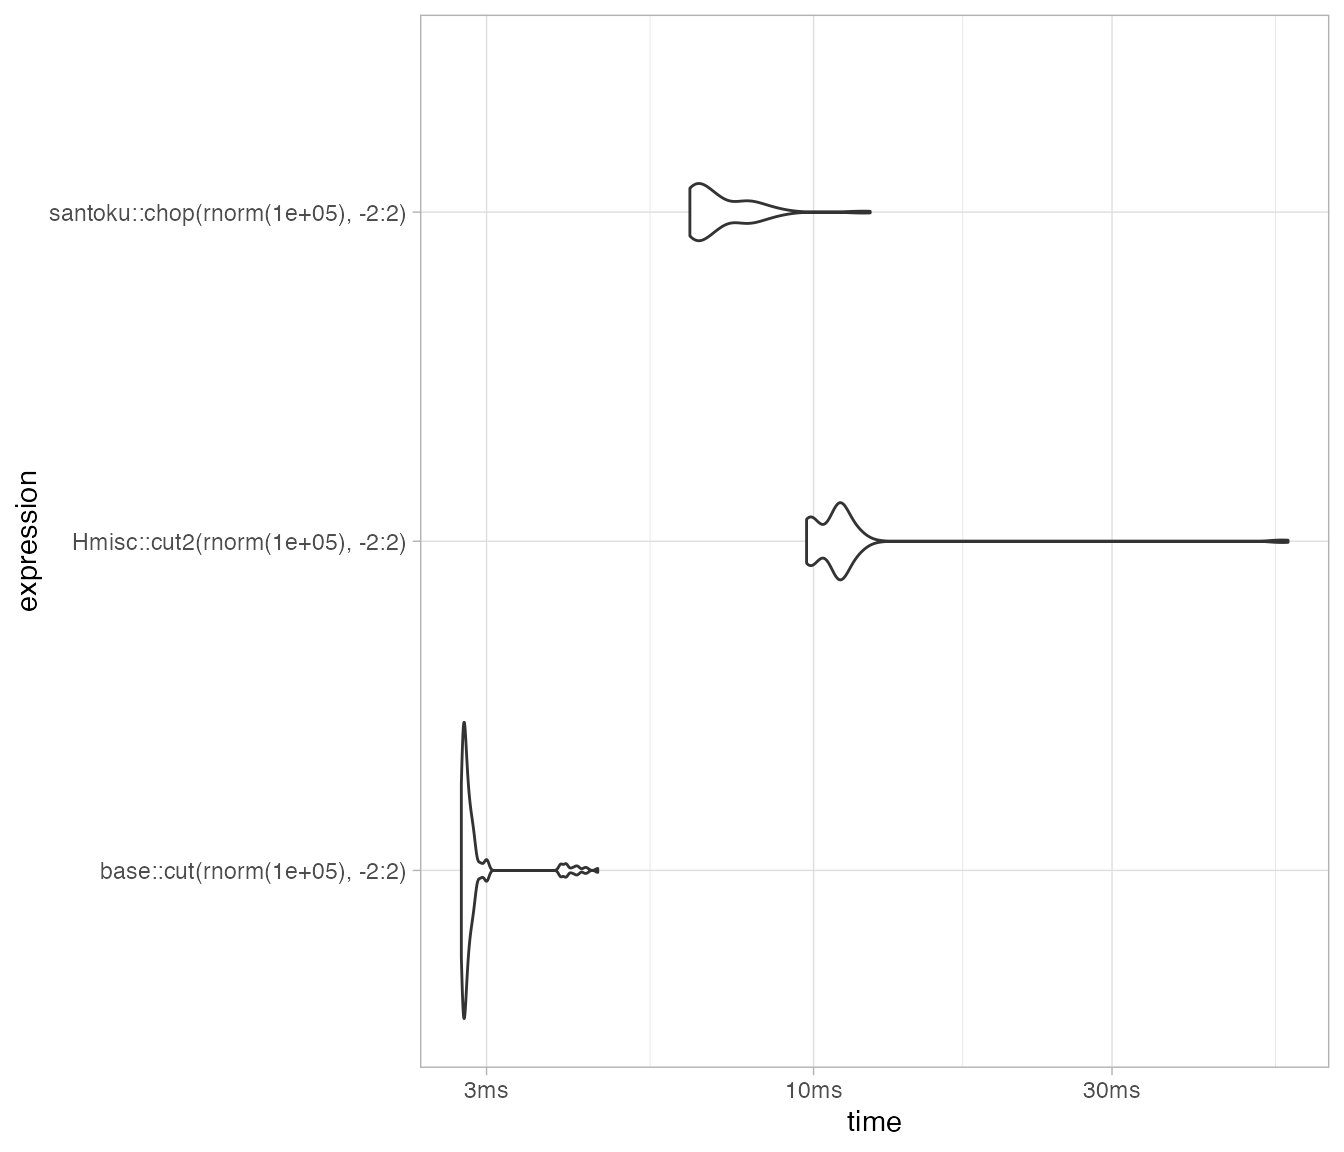
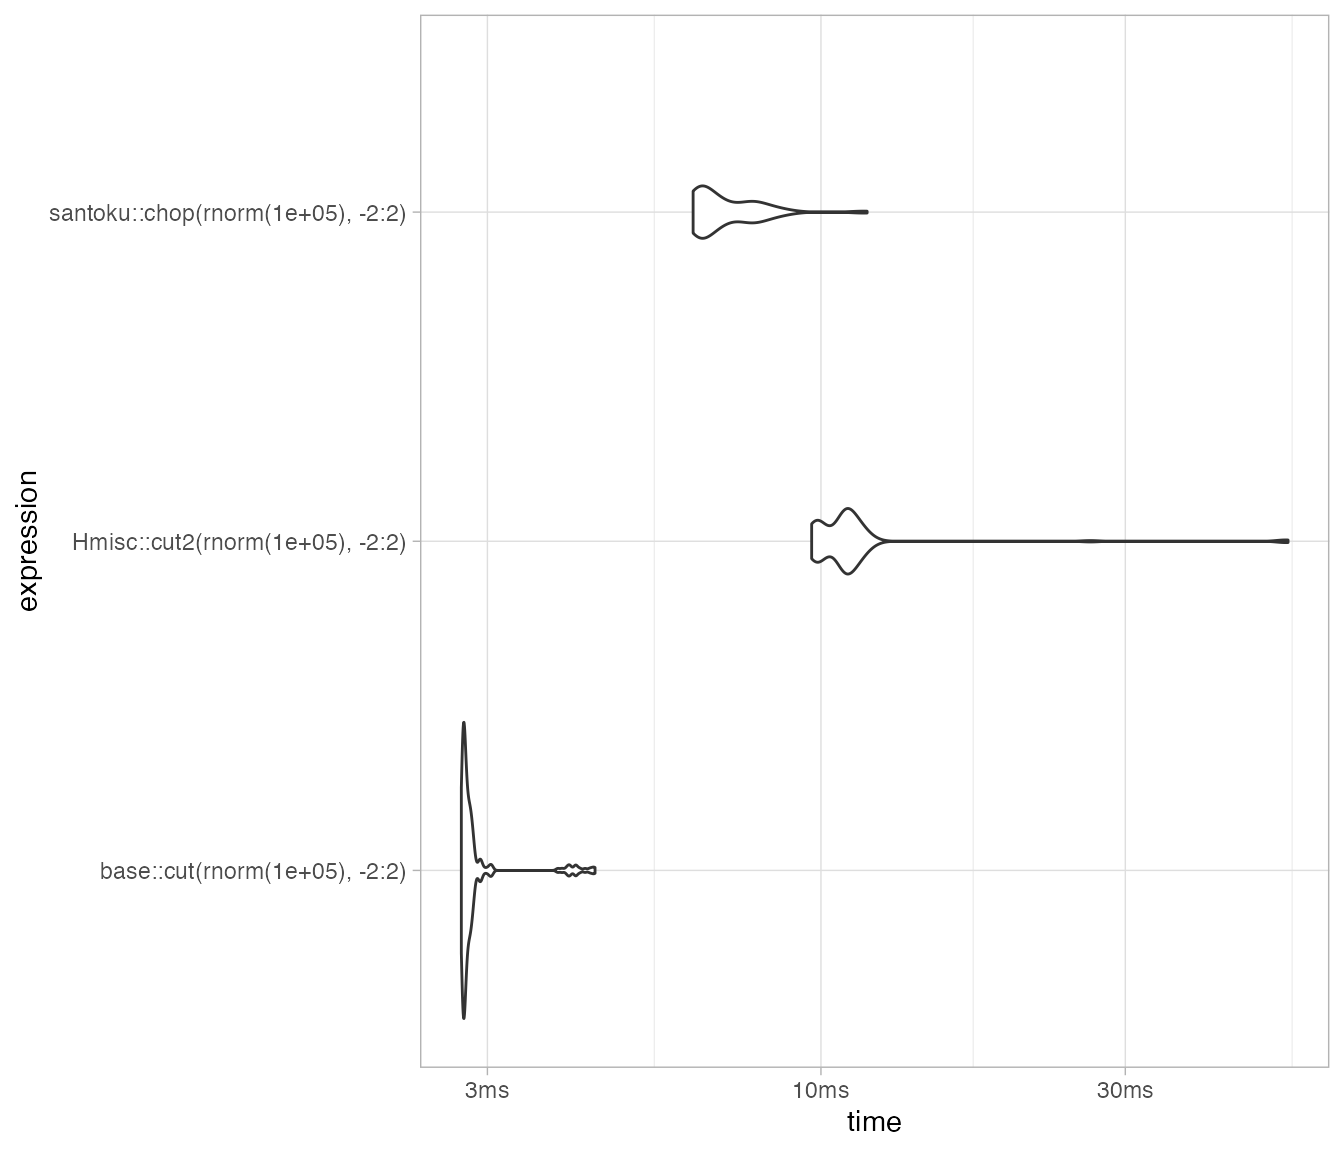
Update pkgdown for 1.2.1

diff --git a/docs/articles/website-articles/performance.html b/docs/articles/website-articles/performance.html
@@ -26,7 +26,7 @@
 
     <a class="navbar-brand me-2" href="../../index.html">santoku</a>
 
-    <small class="nav-text text-muted me-auto" data-bs-toggle="tooltip" data-bs-placement="bottom" title="">1.2.0</small>
+    <small class="nav-text text-muted me-auto" data-bs-toggle="tooltip" data-bs-placement="bottom" title="">1.2.1</small>
 
 
     <button class="navbar-toggler" type="button" data-bs-toggle="collapse" data-bs-target="#navbar" aria-controls="navbar" aria-expanded="false" aria-label="Toggle navigation">
@@ -74,7 +74,7 @@
                         <h4 data-toc-skip class="author">David
 Hugh-Jones</h4>
             
-            <h4 data-toc-skip class="date">2026-04-28</h4>
+            <h4 data-toc-skip class="date">2026-05-01</h4>
       
       <small class="dont-index">Source: <a href="https://github.com/hughjonesd/santoku/blob/HEAD/vignettes/website-articles/performance.Rmd" class="external-link"><code>vignettes/website-articles/performance.Rmd</code></a></small>
       <div class="d-none name"><code>performance.Rmd</code></div>
@@ -89,7 +89,7 @@ Hugh-Jones</h4>
 <div class="sourceCode" id="cb1"><pre class="downlit sourceCode r">
 <code class="sourceCode R"><span></span>
 <span><span class="fu"><a href="https://rdrr.io/r/utils/packageDescription.html" class="external-link">packageVersion</a></span><span class="op">(</span><span class="st">"santoku"</span><span class="op">)</span></span>
-<span><span class="co">#&gt; [1] '1.2.0'</span></span>
+<span><span class="co">#&gt; [1] '1.2.1'</span></span>
 <span><span class="fu"><a href="https://rdrr.io/r/base/Random.html" class="external-link">set.seed</a></span><span class="op">(</span><span class="fl">27101975</span><span class="op">)</span></span>
 <span></span>
 <span><span class="va">mb</span> <span class="op">&lt;-</span> <span class="fu">bench</span><span class="fu">::</span><span class="fu"><a href="https://bench.r-lib.org/reference/mark.html" class="external-link">mark</a></span><span class="op">(</span>min_iterations <span class="op">=</span> <span class="fl">100</span>, check <span class="op">=</span> <span class="cn">FALSE</span>,</span>
@@ -101,9 +101,9 @@ Hugh-Jones</h4>
 <span><span class="co">#&gt; <span style="color: #949494;"># A tibble: 3 × 6</span></span></span>
 <span><span class="co">#&gt;   expression                             min median `itr/sec` mem_alloc `gc/sec`</span></span>
 <span><span class="co">#&gt;   <span style="color: #949494; font-style: italic;">&lt;bch:expr&gt;</span>                        <span style="color: #949494; font-style: italic;">&lt;bch:tm&gt;</span> <span style="color: #949494; font-style: italic;">&lt;bch:&gt;</span>     <span style="color: #949494; font-style: italic;">&lt;dbl&gt;</span> <span style="color: #949494; font-style: italic;">&lt;bch:byt&gt;</span>    <span style="color: #949494; font-style: italic;">&lt;dbl&gt;</span></span></span>
-<span><span class="co">#&gt; <span style="color: #BCBCBC;">1</span> santoku::chop(rnorm(1e+05), -2:2)   6.34ms 6.54ms      150.   10.21MB     64.5</span></span>
-<span><span class="co">#&gt; <span style="color: #BCBCBC;">2</span> base::cut(rnorm(1e+05), -2:2)       2.73ms 2.78ms      357.    2.35MB     31.5</span></span>
-<span><span class="co">#&gt; <span style="color: #BCBCBC;">3</span> Hmisc::cut2(rnorm(1e+05), -2:2)     9.74ms 9.88ms      101.    19.5MB    223.</span></span></code></pre></div>
+<span><span class="co">#&gt; <span style="color: #BCBCBC;">1</span> santoku::chop(rnorm(1e+05), -2:2)    6.3ms 6.53ms      151.   10.21MB     64.5</span></span>
+<span><span class="co">#&gt; <span style="color: #BCBCBC;">2</span> base::cut(rnorm(1e+05), -2:2)       2.73ms 2.77ms      358.    2.35MB     31.5</span></span>
+<span><span class="co">#&gt; <span style="color: #BCBCBC;">3</span> Hmisc::cut2(rnorm(1e+05), -2:2)     9.67ms 9.85ms      101.    19.5MB    224.</span></span></code></pre></div>
 <div class="sourceCode" id="cb2"><pre class="downlit sourceCode r">
 <code class="sourceCode R"><span><span class="fu">autoplot</span><span class="op">(</span><span class="va">mb</span>, type <span class="op">=</span> <span class="st">"violin"</span><span class="op">)</span></span></code></pre></div>
 <p><img src="performance_files/figure-html/unnamed-chunk-1-1.png" class="r-plt" alt="" width="672"></p>
@@ -125,9 +125,9 @@ Hugh-Jones</h4>
 <span><span class="co">#&gt; <span style="color: #949494;"># A tibble: 3 × 6</span></span></span>
 <span><span class="co">#&gt;   expression                            min  median `itr/sec` mem_alloc `gc/sec`</span></span>
 <span><span class="co">#&gt;   <span style="color: #949494; font-style: italic;">&lt;bch:expr&gt;</span>                        <span style="color: #949494; font-style: italic;">&lt;bch:t&gt;</span> <span style="color: #949494; font-style: italic;">&lt;bch:t&gt;</span>     <span style="color: #949494; font-style: italic;">&lt;dbl&gt;</span> <span style="color: #949494; font-style: italic;">&lt;bch:byt&gt;</span>    <span style="color: #949494; font-style: italic;">&lt;dbl&gt;</span></span></span>
-<span><span class="co">#&gt; <span style="color: #BCBCBC;">1</span> santoku::chop(rnorm(10000), many… 20.95ms 21.28ms      46.2    5.14MB     8.81</span></span>
-<span><span class="co">#&gt; <span style="color: #BCBCBC;">2</span> base::cut(rnorm(10000), many_bre…  2.35ms  2.43ms     409.     1.39MB    17.7 </span></span>
-<span><span class="co">#&gt; <span style="color: #BCBCBC;">3</span> Hmisc::cut2(rnorm(10000), many_b…  7.03ms   7.2ms     138.      5.7MB    32.5</span></span></code></pre></div>
+<span><span class="co">#&gt; <span style="color: #BCBCBC;">1</span> santoku::chop(rnorm(10000), many… 20.88ms 21.22ms      46.9    5.14MB     8.93</span></span>
+<span><span class="co">#&gt; <span style="color: #BCBCBC;">2</span> base::cut(rnorm(10000), many_bre…  2.36ms  2.45ms     407.     1.39MB    17.7 </span></span>
+<span><span class="co">#&gt; <span style="color: #BCBCBC;">3</span> Hmisc::cut2(rnorm(10000), many_b…  7.03ms  7.21ms     138.      5.7MB    32.5</span></span></code></pre></div>
 <div class="sourceCode" id="cb4"><pre class="downlit sourceCode r">
 <code class="sourceCode R"><span><span class="fu">autoplot</span><span class="op">(</span><span class="va">mb_breaks</span>, type <span class="op">=</span> <span class="st">"violin"</span><span class="op">)</span></span></code></pre></div>
 <p><img src="performance_files/figure-html/unnamed-chunk-2-1.png" class="r-plt" alt="" width="672"></p>
@@ -158,18 +158,18 @@ Hugh-Jones</h4>
 <span><span class="co">#&gt; <span style="color: #949494;"># A tibble: 12 × 6</span></span></span>
 <span><span class="co">#&gt;    expression                           min  median `itr/sec` mem_alloc `gc/sec`</span></span>
 <span><span class="co">#&gt;    <span style="color: #949494; font-style: italic;">&lt;bch:expr&gt;</span>                       <span style="color: #949494; font-style: italic;">&lt;bch:t&gt;</span> <span style="color: #949494; font-style: italic;">&lt;bch:t&gt;</span>     <span style="color: #949494; font-style: italic;">&lt;dbl&gt;</span> <span style="color: #949494; font-style: italic;">&lt;bch:byt&gt;</span>    <span style="color: #949494; font-style: italic;">&lt;dbl&gt;</span></span></span>
-<span><span class="co">#&gt; <span style="color: #BCBCBC;"> 1</span> chop(x, -2:2)                     4.23ms  4.33ms     229.     8.63MB    118. </span></span>
-<span><span class="co">#&gt; <span style="color: #BCBCBC;"> 2</span> chop_equally(x, groups = 20)     11.04ms  11.2ms      88.5   12.18MB     72.4</span></span>
-<span><span class="co">#&gt; <span style="color: #BCBCBC;"> 3</span> chop_n(x, n = 20000)              7.65ms  8.11ms     124.     23.5MB    507. </span></span>
-<span><span class="co">#&gt; <span style="color: #BCBCBC;"> 4</span> chop_quantiles(x, c(0.05, 0.25,…  6.63ms  6.75ms     147.    12.08MB    125. </span></span>
-<span><span class="co">#&gt; <span style="color: #BCBCBC;"> 5</span> chop_evenly(x, intervals = 20)    5.43ms  5.57ms     178.    12.48MB    152. </span></span>
-<span><span class="co">#&gt; <span style="color: #BCBCBC;"> 6</span> chop_width(x, width = 0.25)       5.96ms  6.08ms     163.    12.53MB    139. </span></span>
-<span><span class="co">#&gt; <span style="color: #BCBCBC;"> 7</span> chop_proportions(x, proportions…  4.75ms  5.37ms     190.    12.48MB    162. </span></span>
-<span><span class="co">#&gt; <span style="color: #BCBCBC;"> 8</span> chop_mean_sd(x, sds = 1:4)         4.9ms     5ms     198.    11.36MB    150. </span></span>
-<span><span class="co">#&gt; <span style="color: #BCBCBC;"> 9</span> chop_fn(x, scales::breaks_exten…  5.33ms   5.5ms     177.    11.47MB    123. </span></span>
-<span><span class="co">#&gt; <span style="color: #BCBCBC;">10</span> chop_pretty(x, n = 10)            4.87ms  5.02ms     197.    10.58MB    142. </span></span>
-<span><span class="co">#&gt; <span style="color: #BCBCBC;">11</span> chop_spikes(x, -2:2, prop = 0.0…  8.14ms  8.41ms     119.    14.62MB    137. </span></span>
-<span><span class="co">#&gt; <span style="color: #BCBCBC;">12</span> dissect(x, -2:2, prop = 0.01)    11.42ms 11.61ms      85.6   22.27MB    257.</span></span></code></pre></div>
+<span><span class="co">#&gt; <span style="color: #BCBCBC;"> 1</span> chop(x, -2:2)                     4.59ms  4.73ms     209.     8.63MB     93.9</span></span>
+<span><span class="co">#&gt; <span style="color: #BCBCBC;"> 2</span> chop_equally(x, groups = 20)     10.84ms 11.02ms      90.2   12.18MB     76.8</span></span>
+<span><span class="co">#&gt; <span style="color: #BCBCBC;"> 3</span> chop_n(x, n = 20000)              7.87ms  8.03ms     124.     23.5MB    541. </span></span>
+<span><span class="co">#&gt; <span style="color: #BCBCBC;"> 4</span> chop_quantiles(x, c(0.05, 0.25,…   6.8ms  6.97ms     143.    12.08MB    122. </span></span>
+<span><span class="co">#&gt; <span style="color: #BCBCBC;"> 5</span> chop_evenly(x, intervals = 20)    5.25ms  5.36ms     185.    12.48MB    158. </span></span>
+<span><span class="co">#&gt; <span style="color: #BCBCBC;"> 6</span> chop_width(x, width = 0.25)        5.9ms  6.07ms     164.    12.54MB    134. </span></span>
+<span><span class="co">#&gt; <span style="color: #BCBCBC;"> 7</span> chop_proportions(x, proportions…  4.71ms  4.84ms     206.    12.48MB    176. </span></span>
+<span><span class="co">#&gt; <span style="color: #BCBCBC;"> 8</span> chop_mean_sd(x, sds = 1:4)           5ms  5.14ms     194.    11.36MB    147. </span></span>
+<span><span class="co">#&gt; <span style="color: #BCBCBC;"> 9</span> chop_fn(x, scales::breaks_exten…  4.86ms  5.14ms     191.    11.47MB    144. </span></span>
+<span><span class="co">#&gt; <span style="color: #BCBCBC;">10</span> chop_pretty(x, n = 10)            4.53ms  4.68ms     213.    10.58MB    148. </span></span>
+<span><span class="co">#&gt; <span style="color: #BCBCBC;">11</span> chop_spikes(x, -2:2, prop = 0.0…  8.03ms  8.17ms     122.    14.62MB    132. </span></span>
+<span><span class="co">#&gt; <span style="color: #BCBCBC;">12</span> dissect(x, -2:2, prop = 0.01)    11.71ms 11.87ms      84.0   22.27MB    269.</span></span></code></pre></div>
 <div class="sourceCode" id="cb6"><pre class="downlit sourceCode r">
 <code class="sourceCode R"><span><span class="fu">autoplot</span><span class="op">(</span><span class="va">mb_various</span>, type <span class="op">=</span> <span class="st">"violin"</span><span class="op">)</span></span></code></pre></div>
 <p><img src="performance_files/figure-html/unnamed-chunk-3-1.png" class="r-plt" alt="" width="672"></p>

diff --git a/docs/news/index.html b/docs/news/index.html
@@ -7,7 +7,7 @@
 
     <a class="navbar-brand me-2" href="../index.html">santoku</a>
 
-    <small class="nav-text text-muted me-auto" data-bs-toggle="tooltip" data-bs-placement="bottom" title="">1.2.0</small>
+    <small class="nav-text text-muted me-auto" data-bs-toggle="tooltip" data-bs-placement="bottom" title="">1.2.1</small>
 
 
     <button class="navbar-toggler" type="button" data-bs-toggle="collapse" data-bs-target="#navbar" aria-controls="navbar" aria-expanded="false" aria-label="Toggle navigation">
@@ -43,7 +43,11 @@
     </div>
 
     <div class="section level2">
-<h2 class="pkg-version" data-toc-text="1.2.0" id="santoku-120">santoku 1.2.0<a class="anchor" aria-label="anchor" href="#santoku-120"></a></h2>
+<h2 class="pkg-version" data-toc-text="1.2.1" id="santoku-121">santoku 1.2.1<a class="anchor" aria-label="anchor" href="#santoku-121"></a></h2>
+<ul><li>Fixed a test bug.</li>
+</ul></div>
+    <div class="section level2">
+<h2 class="pkg-version" data-toc-text="1.2.0" id="santoku-120">santoku 1.2.0<a class="anchor" aria-label="anchor" href="#santoku-120"></a></h2><p class="text-muted">CRAN release: 2026-04-28</p>
 <ul><li>New experimental <code><a href="../reference/lbl_datetime.html">lbl_date()</a></code> and <code><a href="../reference/lbl_datetime.html">lbl_datetime()</a></code> functions for pretty formatting of dates and date-times.</li>
 <li>Bugfix: extended breaks were failing on <code><a href="https://haven.tidyverse.org/reference/labelled.html" class="external-link">haven::labelled</a></code> objects.</li>
 <li>The <code>raw</code> argument to <code>lbl_*</code> functions, deprecated since 0.9.0, now throws an error.</li>

diff --git a/docs/authors.html b/docs/authors.html
@@ -7,7 +7,7 @@
 
     <a class="navbar-brand me-2" href="index.html">santoku</a>
 
-    <small class="nav-text text-muted me-auto" data-bs-toggle="tooltip" data-bs-placement="bottom" title="">1.2.0</small>
+    <small class="nav-text text-muted me-auto" data-bs-toggle="tooltip" data-bs-placement="bottom" title="">1.2.1</small>
 
 
     <button class="navbar-toggler" type="button" data-bs-toggle="collapse" data-bs-target="#navbar" aria-controls="navbar" aria-expanded="false" aria-label="Toggle navigation">
@@ -60,13 +60,13 @@
 
       <p>Hugh-Jones D (2026).
 <em>santoku: A Versatile Cutting Tool</em>.
-R package version 1.2.0, <a href="https://github.com/hughjonesd/santoku" class="external-link">https://github.com/hughjonesd/santoku</a>.
+R package version 1.2.1, <a href="https://github.com/hughjonesd/santoku" class="external-link">https://github.com/hughjonesd/santoku</a>.
 </p>
       <pre>@Manual{,
   title = {santoku: A Versatile Cutting Tool},
   author = {David Hugh-Jones},
   year = {2026},
-  note = {R package version 1.2.0},
+  note = {R package version 1.2.1},
   url = {https://github.com/hughjonesd/santoku},
 }</pre>
     </div>

diff --git a/docs/404.html b/docs/404.html
@@ -27,7 +27,7 @@
 
     <a class="navbar-brand me-2" href="https://hughjonesd.github.io/santoku/index.html">santoku</a>
 
-    <small class="nav-text text-muted me-auto" data-bs-toggle="tooltip" data-bs-placement="bottom" title="">1.2.0</small>
+    <small class="nav-text text-muted me-auto" data-bs-toggle="tooltip" data-bs-placement="bottom" title="">1.2.1</small>
 
 
     <button class="navbar-toggler" type="button" data-bs-toggle="collapse" data-bs-target="#navbar" aria-controls="navbar" aria-expanded="false" aria-label="Toggle navigation">

diff --git a/docs/AGENTS.html b/docs/AGENTS.html
@@ -7,7 +7,7 @@
 
     <a class="navbar-brand me-2" href="index.html">santoku</a>
 
-    <small class="nav-text text-muted me-auto" data-bs-toggle="tooltip" data-bs-placement="bottom" title="">1.2.0</small>
+    <small class="nav-text text-muted me-auto" data-bs-toggle="tooltip" data-bs-placement="bottom" title="">1.2.1</small>
 
 
     <button class="navbar-toggler" type="button" data-bs-toggle="collapse" data-bs-target="#navbar" aria-controls="navbar" aria-expanded="false" aria-label="Toggle navigation">

diff --git a/docs/LICENSE-text.html b/docs/LICENSE-text.html
@@ -7,7 +7,7 @@
 
     <a class="navbar-brand me-2" href="index.html">santoku</a>
 
-    <small class="nav-text text-muted me-auto" data-bs-toggle="tooltip" data-bs-placement="bottom" title="">1.2.0</small>
+    <small class="nav-text text-muted me-auto" data-bs-toggle="tooltip" data-bs-placement="bottom" title="">1.2.1</small>
 
 
     <button class="navbar-toggler" type="button" data-bs-toggle="collapse" data-bs-target="#navbar" aria-controls="navbar" aria-expanded="false" aria-label="Toggle navigation">

diff --git a/docs/LICENSE.html b/docs/LICENSE.html
@@ -7,7 +7,7 @@
 
     <a class="navbar-brand me-2" href="index.html">santoku</a>
 
-    <small class="nav-text text-muted me-auto" data-bs-toggle="tooltip" data-bs-placement="bottom" title="">1.2.0</small>
+    <small class="nav-text text-muted me-auto" data-bs-toggle="tooltip" data-bs-placement="bottom" title="">1.2.1</small>
 
 
     <button class="navbar-toggler" type="button" data-bs-toggle="collapse" data-bs-target="#navbar" aria-controls="navbar" aria-expanded="false" aria-label="Toggle navigation">

diff --git a/docs/TODO.html b/docs/TODO.html
@@ -7,7 +7,7 @@
 
     <a class="navbar-brand me-2" href="index.html">santoku</a>
 
-    <small class="nav-text text-muted me-auto" data-bs-toggle="tooltip" data-bs-placement="bottom" title="">1.2.0</small>
+    <small class="nav-text text-muted me-auto" data-bs-toggle="tooltip" data-bs-placement="bottom" title="">1.2.1</small>
 
 
     <button class="navbar-toggler" type="button" data-bs-toggle="collapse" data-bs-target="#navbar" aria-controls="navbar" aria-expanded="false" aria-label="Toggle navigation">

diff --git a/docs/articles/index.html b/docs/articles/index.html
@@ -7,7 +7,7 @@
 
     <a class="navbar-brand me-2" href="../index.html">santoku</a>
 
-    <small class="nav-text text-muted me-auto" data-bs-toggle="tooltip" data-bs-placement="bottom" title="">1.2.0</small>
+    <small class="nav-text text-muted me-auto" data-bs-toggle="tooltip" data-bs-placement="bottom" title="">1.2.1</small>
 
 
     <button class="navbar-toggler" type="button" data-bs-toggle="collapse" data-bs-target="#navbar" aria-controls="navbar" aria-expanded="false" aria-label="Toggle navigation">

diff --git a/docs/articles/santoku.html b/docs/articles/santoku.html
@@ -26,7 +26,7 @@
 
     <a class="navbar-brand me-2" href="../index.html">santoku</a>
 
-    <small class="nav-text text-muted me-auto" data-bs-toggle="tooltip" data-bs-placement="bottom" title="">1.2.0</small>
+    <small class="nav-text text-muted me-auto" data-bs-toggle="tooltip" data-bs-placement="bottom" title="">1.2.1</small>
 
 
     <button class="navbar-toggler" type="button" data-bs-toggle="collapse" data-bs-target="#navbar" aria-controls="navbar" aria-expanded="false" aria-label="Toggle navigation">

diff --git a/docs/articles/whats-new-in-0-9-0.html b/docs/articles/whats-new-in-0-9-0.html
@@ -26,7 +26,7 @@
 
     <a class="navbar-brand me-2" href="../index.html">santoku</a>
 
-    <small class="nav-text text-muted me-auto" data-bs-toggle="tooltip" data-bs-placement="bottom" title="">1.2.0</small>
+    <small class="nav-text text-muted me-auto" data-bs-toggle="tooltip" data-bs-placement="bottom" title="">1.2.1</small>
 
 
     <button class="navbar-toggler" type="button" data-bs-toggle="collapse" data-bs-target="#navbar" aria-controls="navbar" aria-expanded="false" aria-label="Toggle navigation">

diff --git a/docs/index.html b/docs/index.html
@@ -29,7 +29,7 @@
 
     <a class="navbar-brand me-2" href="index.html">santoku</a>
 
-    <small class="nav-text text-muted me-auto" data-bs-toggle="tooltip" data-bs-placement="bottom" title="">1.2.0</small>
+    <small class="nav-text text-muted me-auto" data-bs-toggle="tooltip" data-bs-placement="bottom" title="">1.2.1</small>
 
 
     <button class="navbar-toggler" type="button" data-bs-toggle="collapse" data-bs-target="#navbar" aria-controls="navbar" aria-expanded="false" aria-label="Toggle navigation">